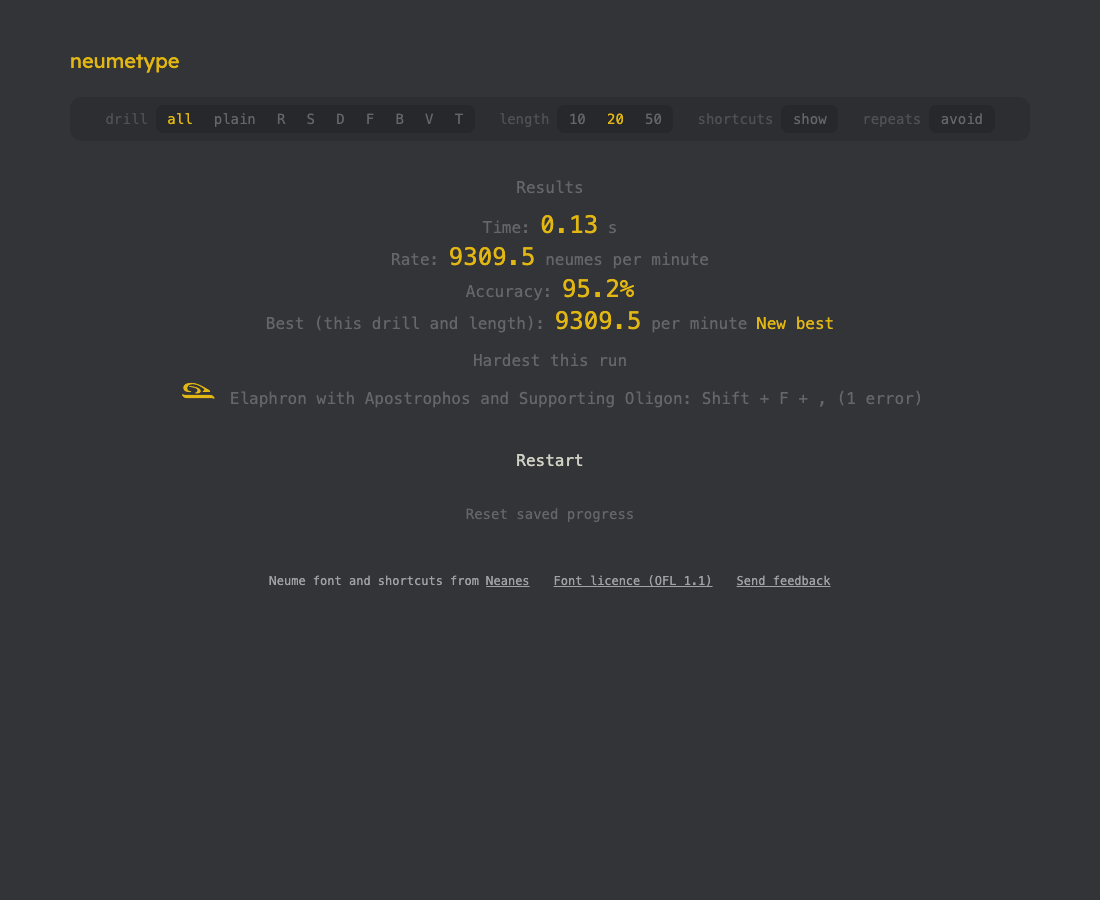
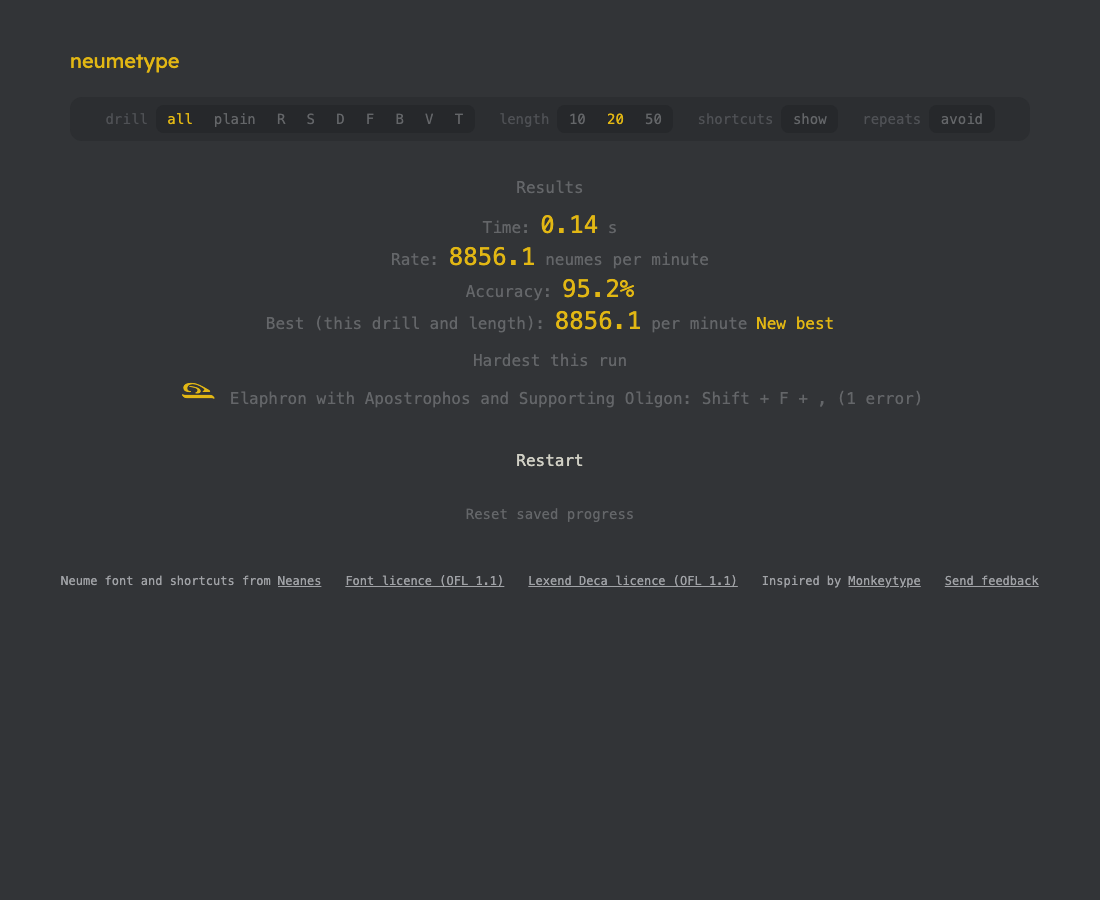
feat(ui): credit Monkeytype in the footer and fix the review findings
Footer links the Lexend Deca licence and says "Inspired by Monkeytype".
The title gets a "Restart test" tooltip, CI checks that both fonts and
licences are deployed, SPEC names both licence files, and the results-screen
title test also checks zeroed counts and focus.

diff --git a/e2e/intro.spec.ts b/e2e/intro.spec.ts
@@ -46,12 +46,14 @@ test('resetting saved progress brings the instruction back', async ({ page }) =>
   await expect(page.getByTestId('intro')).toBeVisible();
 });
 
-test('the footer credits Neanes and links to the licence and to feedback, in new tabs', async ({ page }) => {
+test('the footer credits Neanes and Monkeytype and links to both licences and to feedback, in new tabs', async ({ page }) => {
   await page.goto('/?seed=1');
   const footer = page.getByRole('contentinfo');
   const links = [
     ['Neanes', 'https://github.com/neanes/neanes'],
     ['Font licence (OFL 1.1)', '/fonts/OFL.txt'],
+    ['Lexend Deca licence (OFL 1.1)', '/fonts/OFL-LexendDeca.txt'],
+    ['Monkeytype', 'https://monkeytype.com'],
     ['Send feedback', 'https://github.com/Edesem/neume-type/issues'],
   ];
   await expect(footer.getByRole('link')).toHaveCount(links.length);
@@ -70,6 +72,19 @@ test('the footer licence link serves the font licence', async ({ page, request }
   expect(await response.text()).toContain('SIL OPEN FONT LICENSE');
 });
 
+test('the Lexend Deca licence link serves that font licence', async ({ page, request }) => {
+  await page.goto('/?seed=1');
+  const href = await page.getByRole('link', { name: 'Lexend Deca licence (OFL 1.1)' }).getAttribute('href');
+  const text = await (await request.get(href!)).text();
+  expect(text).toContain('SIL OPEN FONT LICENSE');
+  expect(text).toContain('The Lexend Project Authors');
+});
+
+test('the footer says the app is inspired by Monkeytype', async ({ page }) => {
+  await page.goto('/?seed=1');
+  await expect(page.getByRole('contentinfo')).toContainText('Inspired by Monkeytype');
+});
+
 test('the footer stays on the results screen', async ({ page }) => {
   await page.goto('/?seed=1');
   await playRun(page);
@@ -79,7 +94,7 @@ test('the footer stays on the results screen', async ({ page }) => {
 test('the instruction and footer have at least 4.5:1 contrast', async ({ page }) => {
   await page.goto('/?seed=1');
   const ratios = await contrastRatios(page.locator('.intro, .footer, .footer a'));
-  expect(ratios).toHaveLength(5); // the instruction, the footer and its three links
+  expect(ratios).toHaveLength(7); // the instruction, the footer and its five links
   for (const r of ratios) expect(r.ratio, r.text ?? '').toBeGreaterThanOrEqual(4.5);
 });
 

diff --git a/e2e/title.spec.ts b/e2e/title.spec.ts
@@ -33,11 +33,21 @@ test('clicking the title restarts a running test', async ({ page }) => {
 });
 
 test('clicking the title on the results screen starts a new test', async ({ page }) => {
-  await page.goto('/?seed=1');
+  await page.goto('/?seed=1&debug');
   await playRun(page);
-  await page.getByRole('button', { name: 'neumetype' }).click();
+  const title = page.getByRole('button', { name: 'neumetype' });
+  await title.click();
   await expect(page.getByTestId('row')).toBeVisible();
   await expect(page.getByTestId('done')).toHaveCount(0);
+  expect(await counts(page)).toEqual({ attempts: 0, errors: 0 });
+  await expect(title).not.toBeFocused();
+});
+
+test('the title says that clicking it restarts the test', async ({ page }) => {
+  await page.goto('/?seed=1');
+  const title = page.getByRole('button', { name: 'neumetype' });
+  await expect(title).toHaveAttribute('title', 'Restart test'); // the tooltip
+  await expect(title).toHaveAccessibleDescription('Restart test');
 });
 
 test('the title gives up focus after a click, so Space cannot restart again', async ({ page }) => {

diff --git a/src/data/tooling.test.ts b/src/data/tooling.test.ts
@@ -1,4 +1,4 @@
-import { readFileSync } from 'node:fs';
+import { readdirSync, readFileSync } from 'node:fs';
 import { describe, expect, it } from 'vitest';
 import playwrightConfig, { E2E_PORT } from '../../playwright.config';
 import viteConfig from '../../vite.config';
@@ -20,5 +20,12 @@ describe('tooling', () => {
       readFileSync(new URL('../../package.json', import.meta.url), 'utf8'),
     ) as { scripts: Record<string, string> };
     expect(pkg.scripts.check).toContain('npm run build');
+  });
+
+  it('CI build job checks that every file in public/fonts is deployed', () => {
+    const ci = readFileSync(new URL('../../.github/workflows/ci.yml', import.meta.url), 'utf8');
+    const files = readdirSync(new URL('../../public/fonts/', import.meta.url));
+    expect(files.length).toBeGreaterThan(0);
+    for (const name of files) expect(ci).toContain(`test -f dist/fonts/${name}`);
   });
 });

diff --git a/src/ui/Footer.test.ts b/src/ui/Footer.test.ts
@@ -5,9 +5,11 @@ import { Footer } from './Footer';
 
 afterEach(() => vi.unstubAllEnvs());
 
-describe('Footer licence link', () => {
-  it.each(['/', '/neume-type/'])('follows the Vite base %s, like the font URL', (base) => {
+describe('Footer licence links', () => {
+  it.each(['/', '/neume-type/'])('follow the Vite base %s, like the font URL', (base) => {
     vi.stubEnv('BASE_URL', base);
-    expect(renderToStaticMarkup(createElement(Footer))).toContain(`href="${base}fonts/OFL.txt"`);
+    const html = renderToStaticMarkup(createElement(Footer));
+    expect(html).toContain(`href="${base}fonts/OFL.txt"`);
+    expect(html).toContain(`href="${base}fonts/OFL-LexendDeca.txt"`);
   });
 });

diff --git a/src/ui/Footer.tsx b/src/ui/Footer.tsx
@@ -11,6 +11,15 @@ export function Footer() {
       <a href={`${import.meta.env.BASE_URL}fonts/OFL.txt`} target="_blank" rel="noreferrer">
         Font licence (OFL 1.1)
       </a>
+      <a href={`${import.meta.env.BASE_URL}fonts/OFL-LexendDeca.txt`} target="_blank" rel="noreferrer">
+        Lexend Deca licence (OFL 1.1)
+      </a>
+      <span>
+        Inspired by{' '}
+        <a href="https://monkeytype.com" target="_blank" rel="noreferrer">
+          Monkeytype
+        </a>
+      </span>
       <a href="https://github.com/Edesem/neume-type/issues" target="_blank" rel="noreferrer">
         Send feedback
       </a>

diff --git a/src/ui/App.tsx b/src/ui/App.tsx
@@ -41,7 +41,7 @@ function Game({ store, progress, debug = false }: AppProps) {
   return (
     <main>
       <h1>
-        <button type="button" className="title" onClick={restart}>
+        <button type="button" className="title" title="Restart test" onClick={restart}>
           neumetype
         </button>
       </h1>

diff --git a/SPEC.md b/SPEC.md
@@ -8,7 +8,7 @@ A Monkeytype-style drill for entering Byzantine chant neumes with Neanes keyboar
 
 **Out:** accounts, online features, themes, backend, database, analytics.
 
-**Storage and hosting:** browser storage for saved progress is allowed (U12). Static hosting is allowed with `OFL.txt` beside the font. Still out: accounts, backend, server database, analytics.
+**Storage and hosting:** browser storage for saved progress is allowed (U12). Static hosting is allowed with each font's licence beside it (`OFL.txt` for Neanes, `OFL-LexendDeca.txt` for Lexend Deca). Still out: accounts, backend, server database, analytics.
 
 ## 2. Open decisions (defaults apply unless the user changes them)
 
@@ -26,7 +26,7 @@ A Monkeytype-style drill for entering Byzantine chant neumes with Neanes keyboar
    - Neumes per minute = test length / (time in minutes), to 1 decimal.
    - Accuracy = correct attempts / total attempts, as a percentage to 1 decimal.
    - Example: 40,000 ms with 5 errors gives 40.00 s, 30.0 per minute, 80.0% (20/25).
-6. The restart button is visible during the test and on results. It draws a new test and resets clock and counts. Clicking the title does the same. Attempts on the results screen are ignored.
+6. The restart button is visible during the test and on results. It draws a new test and resets clock and counts. Clicking the title does the same; its tooltip reads "Restart test". Attempts on the results screen are ignored.
 
 ## 3a. Weighting
 
@@ -67,7 +67,7 @@ Decided with the owner on 2026-11-26.
 - **Instruction:** until a run has been finished in this browser, a short instruction shows between the settings and the neumes: "Type each neume with its Neanes shortcut, using US key positions. For S + L, hold S and press L. A wrong key shows the answer. You need a physical keyboard." "Finished" means the saved progress holds per-neume tallies, so practice runs count and nothing new is stored. It stays through an unfinished run and a reload, so the neumes do not move mid-test, and it returns after "Reset saved progress". Without working storage it shows again on each load until a run is finished.
 - **Reset exception:** "Reset saved progress" takes effect at once. Pressed during a run, it inserts the instruction and moves the neumes down once; on the results screen it appears above the results.
 - **Hint position:** the hint (D1, and section 3b's show shortcuts) sits between the instruction and the neumes, so a first-time visitor sees the answer without scrolling. Its space is reserved during a test (one line, three on screens up to 46rem), so at default text size and widths from 320px showing it never moves the neumes (narrower screens or text-only zoom may move them by a line). The shortcut never breaks across lines, and the hint uses the readable error colour (`--error-text`, at least 4.5:1). It sticks to the top of the window when a long test is scrolled. Decided with the owner on 2026-11-26.
-- **Footer:** on both the test and results screens, links to Neanes (font and shortcuts), the font licence (`fonts/OFL.txt` under the Vite base, like the font) and feedback (the project's GitHub issues). Links open in a new tab, so a run is not lost.
+- **Footer:** on both the test and results screens, links to Neanes (font and shortcuts), both font licences (`fonts/OFL.txt` for Neanes and `fonts/OFL-LexendDeca.txt` for Lexend Deca, under the Vite base, like the fonts), Monkeytype ("Inspired by Monkeytype", https://monkeytype.com; owner request 2026-11-28) and feedback (the project's GitHub issues). Links open in a new tab, so a run is not lost.
 - Both texts meet 4.5:1 contrast and fit a 390 px screen.
 
 ## 4. Chord input
@@ -182,9 +182,9 @@ Favicon (owner's choice, 2026-11-28): Petastē with Ison (U+E040) in the accent 
 17. Saved progress: parsing null, invalid JSON, a wrong shape and a future version gives empty progress, and a future version is never overwritten; a throwing or missing storage does not throw; the best follows the rules in section 3c (per drill and length, ties by accuracy, never from practice runs or a null rate); the weakest list needs 3 attempts. In a real browser the best, the weakest panel (inside the results only) and the settings survive a reload, corrupt storage does not break the page, and reset clears the panel. The panel text meets 4.5:1 contrast.
 18. Appendix B: every row matches the keymap; no entry is `unverified` (row 82 was verified by the owner on 2026-11-19); the default `all` drill is exactly the 61 quantity entries (so its chances and seeded draws are unchanged); the V drill has the 11 quality entries and the T drill all 18 fthoras, including row 82, which can be drawn; in a real browser each V and T target is typed with its own shortcut and all 90 code point sequences render from the Neanes font. Human check, done: the owner reported on 2026-11-26 that the glyphs have been checked.
 19. Avoid repeats: off gives exactly the previous draw for a fixed seed; on never puts the same id twice in a row over many seeds and all drills, draws each later position at c_j / (1 - c_prev), uses one `random()` per target, and persists across reload together with the drill and length.
-20. First visit and footer (section 3d): in a real browser the instruction shows above the neumes on a fresh browser and through an unfinished run, is gone after a finished run, restart and reload, and returns after a reset. The footer's three links have the stated targets and open in new tabs, the licence link serves the OFL text, both texts meet 4.5:1 contrast, and a 390 px screen has no sideways scroll. The licence link follows a non-root Vite base (unit test). On a 1280x600 screen the hint is fully visible after a first visitor's wrong key; with the longest hint at 1280, 600, 390 and 320 px it sits above the neumes without moving them; and late in a scrolled 50-neume test it is on screen and clear of the current neume.
+20. First visit and footer (section 3d): in a real browser the instruction shows above the neumes on a fresh browser and through an unfinished run, is gone after a finished run, restart and reload, and returns after a reset. The footer's five links have the stated targets and open in new tabs, each licence link serves its OFL text, both texts meet 4.5:1 contrast, and a 390 px screen has no sideways scroll. Both licence links follow a non-root Vite base (unit test). On a 1280x600 screen the hint is fully visible after a first visitor's wrong key; with the longest hint at 1280, 600, 390 and 320 px it sits above the neumes without moving them; and late in a scrolled 50-neume test it is on screen and clear of the current neume.
 21. Favicon (section 6): in a real browser the page links an SVG icon that is served; its corners are transparent, its tile is `--bg`, and its `--accent` shape overlaps U+E040 drawn by the bundled font (over 93%), unstretched and centred.
-22. Title (sections 3 and 6): in a real browser the heading and tab read "neumetype", the title renders from the bundled Lexend Deca font, and clicking it during a test or on the results gives a new test with zeroed counts, without keeping focus.
+22. Title (sections 3 and 6): in a real browser the heading and tab read "neumetype", the title renders from the bundled Lexend Deca font, and clicking it during a test or on the results gives a new test with zeroed counts, without keeping focus; it has the tooltip "Restart test". The CI build job checks that every file in `public/fonts` is deployed (unit test).
 
 ## Appendix A: Characters of Quantity
 

diff --git a/PROGRESS.md b/PROGRESS.md
@@ -38,6 +38,7 @@
 - Review fixes on PR #36 (2026-11-26, five findings): the instruction pushed the hint below the fold (measured at 1280x720 and 1280x650), so the hint moved above the neumes into reserved, sticky space (owner-approved layout change); the licence link now follows Vite `base` (`Footer` moved to `src/ui/Footer.tsx` to unit-test it); the reset-during-a-run layout shift is kept and documented in SPEC 3d; `contrastRatios` and one `playRun(page, beforeEach?)` in `e2e/helpers.ts` replace the copies. The shared `playRun` now asserts the results show for every caller (some copies did not), and no assertion was removed. Tests first for the two behaviour fixes (7 red). A second review of those fixes raised five minor points, all fixed: the hint's shortcut no longer wraps apart and the hint uses `--error-text` instead of `--error` for 4.5:1 (both red first; the glyph's error colour is unchanged), `contrastRatios` waits for its elements, the screenshot script uses `playRun`, and SPEC 3d states the 320px limit. No dependencies added.
 - Favicon (2026-11-28, owner choice): `public/favicon.svg`, Petastē with Ison in `--accent` on a `--bg` tile, linked from `index.html` (SPEC section 6, criterion 21). The path is the U+E040 outline extracted once from the unmodified `Neanes.otf` with fontTools in a temporary `.scratch/` virtualenv (removed; not a project dependency). Tests first (2 e2e, both red). Not checked: a real browser tab, and Safari versions without SVG favicon support (no PNG or ICO fallback added). No dependencies added.
 - Title (2026-11-28, owner request): the heading and browser tab read "neumetype", and the heading is a button that restarts the test (same handler as Restart, blurred after click). Set in Lexend Deca, the typeface of Monkeytype's logo (named from memory; a web search did not confirm it); no Monkeytype code or assets used. Owner approved bundling it as a second third-party font: `public/fonts/LexendDeca.ttf` and `OFL-LexendDeca.txt`, unmodified from google/fonts at e2332cf8, SHA-256 pinned by unit test; `CLAUDE.md` guardrail and layout, SPEC sections 3, 5, 6 and criteria 10 and 22 updated. Title size and accent colour unchanged. The footer licence link still points at the Neanes licence only. Tests first (2 unit and 5 e2e red: `e2e/title.spec.ts`). Screenshots regenerated. No npm dependencies added.
+- Review fixes and footer credit on PR #37 (2026-11-28, five findings plus an owner request): the footer links the Lexend Deca licence and says "Inspired by Monkeytype" with a link to https://monkeytype.com; the CI build job checks both font files and both licences, guarded by a unit test over `public/fonts`; the title has the tooltip "Restart test"; SPEC section 1 names both licence files; the results-screen title test also asserts zeroed counts and no focus. Tests first (3 unit and 5 e2e red; the stronger results test covers existing behaviour and was checked by removing the blur). The footer e2e now expects five links. No dependencies added.
 
 ## Next
 - G7 decided 2026-11-18: stay on React.
